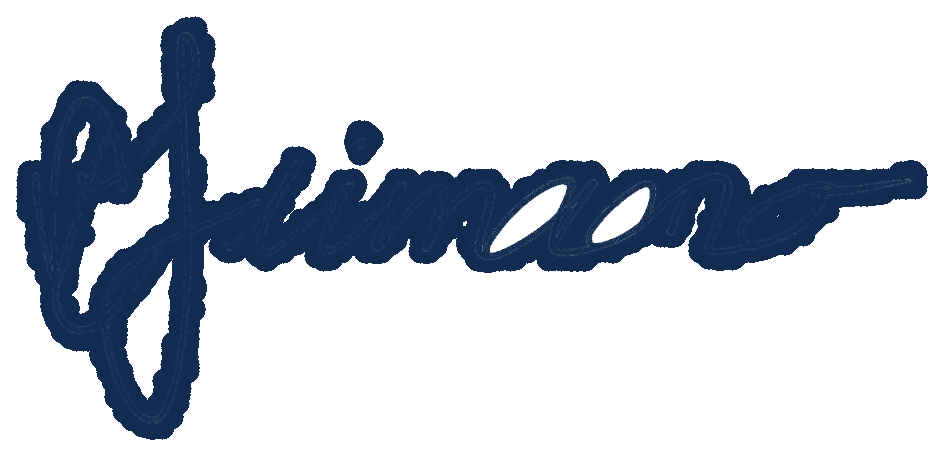
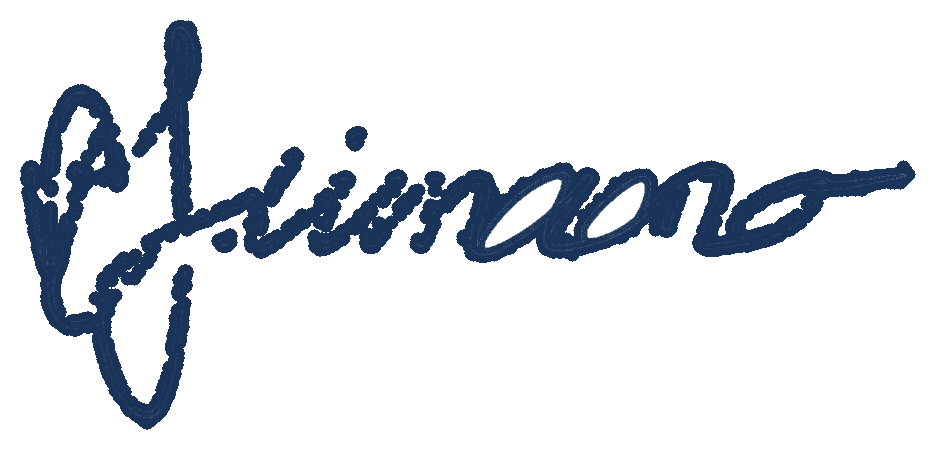
Polish CE certificate signature block layout and ink asset.
Refine spacing, gold accent rule, and typography hierarchy so the electronic signature sits more naturally above the administrator name.

Changed region(s): [[0.0, 0.0311, 0.9915, 0.9644], [0.031, 0.7156, 0.062, 0.7467]]

diff --git a/templates/certificate.php b/templates/certificate.php
@@ -134,40 +134,96 @@ $auto_print          = ! empty( $auto_print );
 		}
 		.meta p { margin: 2px 0; }
 		.divider {
-			width: 200px;
-			height: 2px;
-			background: #122B51;
-			margin: 16px auto;
+			width: 160px;
+			height: 1px;
+			background: #c5a572;
+			margin: 14px auto 12px;
+			position: relative;
+		}
+		.divider::before {
+			content: "";
+			display: block;
+			width: 8px;
+			height: 8px;
+			border: 1px solid #c5a572;
+			border-radius: 50%;
+			background: #fff;
+			position: absolute;
+			left: 50%;
+			top: 50%;
+			margin: -4px 0 0 -4px;
+		}
+		.provider-line {
+			font-size: 13px;
+			line-height: 1.5;
+			margin: 0 auto 18px;
+			max-width: 640px;
+			color: #475467;
+			letter-spacing: 0.01em;
 		}
 		.signature-block {
-			margin-top: 12px;
+			margin: 4px auto 0;
+			max-width: 340px;
 			text-align: center;
+		}
+		.signature-mark {
+			min-height: 58px;
+			margin: 0 auto 0;
+			display: flex;
+			align-items: flex-end;
+			justify-content: center;
 		}
 		.signature-image {
 			display: block;
-			max-width: 280px;
-			max-height: 72px;
+			max-width: 240px;
+			max-height: 58px;
 			width: auto;
 			height: auto;
-			margin: 0 auto 2px;
+			margin: 0 auto;
 			object-fit: contain;
 			object-position: center bottom;
 		}
-		.signature-line {
-			width: 300px;
+		.signature-rule {
+			width: 220px;
+			height: 0;
+			margin: 2px auto 10px;
+			border: 0;
 			border-top: 1px solid #122B51;
-			margin: 0 auto 6px;
-			padding-top: 6px;
-			font-size: 13px;
-			line-height: 1.45;
+			border-bottom: 1px solid #c5a572;
+			padding: 0;
+		}
+		.signature-name {
+			margin: 0 0 2px;
+			font-size: 14px;
+			font-weight: bold;
+			letter-spacing: 0.02em;
+			color: #122B51;
+			line-height: 1.35;
+		}
+		.signature-title {
+			margin: 0 0 1px;
+			font-size: 12px;
+			font-style: italic;
+			color: #475467;
+			line-height: 1.35;
+		}
+		.signature-org {
+			margin: 0;
+			font-size: 11px;
+			letter-spacing: 0.04em;
+			text-transform: uppercase;
+			color: #667085;
+			line-height: 1.4;
 		}
 		.verify {
-			margin-top: 14px;
-			font-size: 13px;
+			margin-top: 18px;
+			font-size: 12px;
 			font-weight: bold;
+			letter-spacing: 0.03em;
+			color: #122B51;
 		}
 		.footer {
-			margin-top: 8px;
+			margin-top: 6px;
 			font-size: 11px;
 			color: #667085;
 		}
@@ -267,7 +323,7 @@ $auto_print          = ! empty( $auto_print );
 
 			<div class="divider"></div>
 
-			<p class="meta">
+			<p class="provider-line">
 				<?php
 				echo esc_html(
 					class_exists( 'CTA_Certificates' )
@@ -284,19 +340,20 @@ $auto_print          = ! empty( $auto_print );
 						? esc_attr( $signature_url )
 						: esc_url( $signature_url );
 					?>
-					<img
-						class="signature-image"
-						src="<?php echo $sig_src; // phpcs:ignore WordPress.Security.EscapeOutput.OutputNotEscaped -- escaped above ?>"
-						alt="<?php echo esc_attr( sprintf( /* translators: %s: signer name */ __( 'Signature of %s', 'cta-lms' ), $signature_name ) ); ?>"
-						width="280"
-						height="72"
-					>
+					<div class="signature-mark">
+						<img
+							class="signature-image"
+							src="<?php echo $sig_src; // phpcs:ignore WordPress.Security.EscapeOutput.OutputNotEscaped -- escaped above ?>"
+							alt="<?php echo esc_attr( sprintf( /* translators: %s: signer name */ __( 'Signature of %s', 'cta-lms' ), $signature_name ) ); ?>"
+							width="240"
+							height="58"
+						>
+					</div>
 				<?php endif; ?>
-				<div class="signature-line">
-					<?php echo esc_html( $signature_name ); ?><br>
-					<?php echo esc_html( $administrator_title ); ?><br>
-					<?php echo esc_html( $organization_name ); ?>
-				</div>
+				<hr class="signature-rule" />
+				<p class="signature-name"><?php echo esc_html( $signature_name ); ?></p>
+				<p class="signature-title"><?php echo esc_html( $administrator_title ); ?></p>
+				<p class="signature-org"><?php echo esc_html( $organization_name ); ?></p>
 			</div>
 
 			<p class="verify">

diff --git a/templates/certificate-pdf.php b/templates/certificate-pdf.php
@@ -129,44 +129,83 @@ $signature_url = ! empty( $signature_url ) ? $signature_url : '';
 		}
 		.meta p { margin: 1px 0; }
 		.divider {
-			width: 200px;
-			height: 2px;
-			background: #122B51;
-			margin: 12px auto;
+			width: 160px;
+			height: 1px;
+			background: #c5a572;
+			margin: 12px auto 10px;
 			border: 0;
 			font-size: 1px;
 			line-height: 1px;
 		}
+		.provider-line {
+			font-size: 12px;
+			line-height: 1.45;
+			margin: 0 auto 14px;
+			max-width: 620px;
+			color: #475467;
+		}
 		.signature-block {
-			margin-top: 10px;
+			margin: 2px auto 0;
+			width: 320px;
+			text-align: center;
+		}
+		.signature-mark {
+			height: 56px;
+			margin: 0 auto;
 			text-align: center;
 		}
 		.signature-image {
 			display: block;
-			max-width: 280px;
-			max-height: 72px;
-			width: 280px;
+			max-width: 230px;
+			max-height: 54px;
+			width: 230px;
 			height: auto;
-			margin: 0 auto 2px;
+			margin: 0 auto;
 		}
-		.signature-line {
-			width: 300px;
+		.signature-rule {
+			width: 200px;
+			height: 0;
+			margin: 2px auto 8px;
+			border: 0;
 			border-top: 1px solid #122B51;
-			margin: 0 auto 4px;
-			padding-top: 6px;
-			font-size: 13px;
-			line-height: 1.4;
-			color: #122B51;
+			border-bottom: 1px solid #c5a572;
+			padding: 0;
+			font-size: 1px;
+			line-height: 1px;
 		}
-		.verify {
-			margin-top: 10px;
+		.signature-name {
+			margin: 0 0 2px;
 			font-size: 13px;
 			font-weight: bold;
+			letter-spacing: 0.02em;
+			color: #122B51;
+			line-height: 1.3;
+		}
+		.signature-title {
+			margin: 0 0 1px;
+			font-size: 11px;
+			font-style: italic;
+			color: #475467;
+			line-height: 1.3;
+		}
+		.signature-org {
+			margin: 0;
+			font-size: 10px;
+			letter-spacing: 0.04em;
+			text-transform: uppercase;
+			color: #667085;
+			line-height: 1.35;
+		}
+		.verify {
+			margin-top: 14px;
+			font-size: 12px;
+			font-weight: bold;
+			letter-spacing: 0.03em;
 			color: #122B51;
 		}
 		.footer {
-			margin-top: 6px;
-			font-size: 11px;
+			margin-top: 5px;
+			font-size: 10px;
 			color: #667085;
 		}
 	</style>
@@ -199,7 +238,7 @@ $signature_url = ! empty( $signature_url ) ? $signature_url : '';
 
 			<div class="divider">&nbsp;</div>
 
-			<p class="meta">
+			<p class="provider-line">
 				<?php
 				echo esc_html(
 					class_exists( 'CTA_Certificates' )
@@ -216,19 +255,20 @@ $signature_url = ! empty( $signature_url ) ? $signature_url : '';
 						? esc_attr( $signature_url )
 						: esc_url( $signature_url );
 					?>
-					<img
-						class="signature-image"
-						src="<?php echo $sig_src; // phpcs:ignore WordPress.Security.EscapeOutput.OutputNotEscaped -- escaped above ?>"
-						alt="<?php echo esc_attr( sprintf( /* translators: %s: signer name */ __( 'Signature of %s', 'cta-lms' ), $signature_name ) ); ?>"
-						width="280"
-						height="72"
-					>
+					<div class="signature-mark">
+						<img
+							class="signature-image"
+							src="<?php echo $sig_src; // phpcs:ignore WordPress.Security.EscapeOutput.OutputNotEscaped -- escaped above ?>"
+							alt="<?php echo esc_attr( sprintf( /* translators: %s: signer name */ __( 'Signature of %s', 'cta-lms' ), $signature_name ) ); ?>"
+							width="230"
+							height="54"
+						>
+					</div>
 				<?php endif; ?>
-				<div class="signature-line">
-					<?php echo esc_html( $signature_name ); ?><br>
-					<?php echo esc_html( $administrator_title ); ?><br>
-					<?php echo esc_html( $organization_name ); ?>
-				</div>
+				<hr class="signature-rule" />
+				<p class="signature-name"><?php echo esc_html( $signature_name ); ?></p>
+				<p class="signature-title"><?php echo esc_html( $administrator_title ); ?></p>
+				<p class="signature-org"><?php echo esc_html( $organization_name ); ?></p>
 			</div>
 
 			<p class="verify">

diff --git a/cta-plugin.php b/cta-plugin.php
@@ -3,7 +3,7 @@
  * Plugin Name: CTA Academy LMS
  * Plugin URI: https://clinicaltrainingacademy.com
  * Description: Complete LMS platform for Clinical Training and Supervision Academy.
- * Version: 1.0.170
+ * Version: 1.0.171
  * Author: David James
  * Author URI: https://clinicaltrainingacademy.com
  * License: GPL-2.0+

diff --git a/cta-lms.php b/cta-lms.php
@@ -20,7 +20,7 @@ if ( ! defined( 'CTA_PLUGIN_FILE' ) ) {
 }
 
 if ( ! defined( 'CTA_VERSION' ) ) {
-	define( 'CTA_VERSION', '1.0.170' );
+	define( 'CTA_VERSION', '1.0.171' );
 }
 
 if ( ! defined( 'CTA_PLUGIN_DIR' ) ) {
